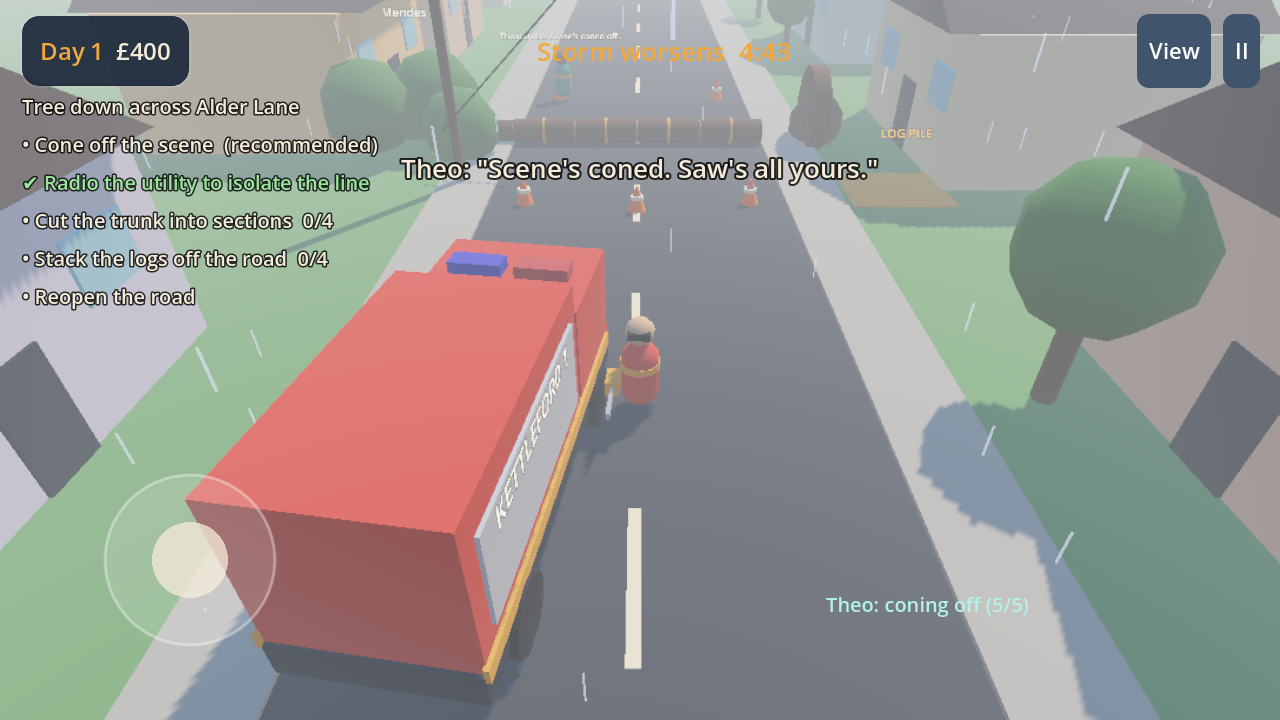
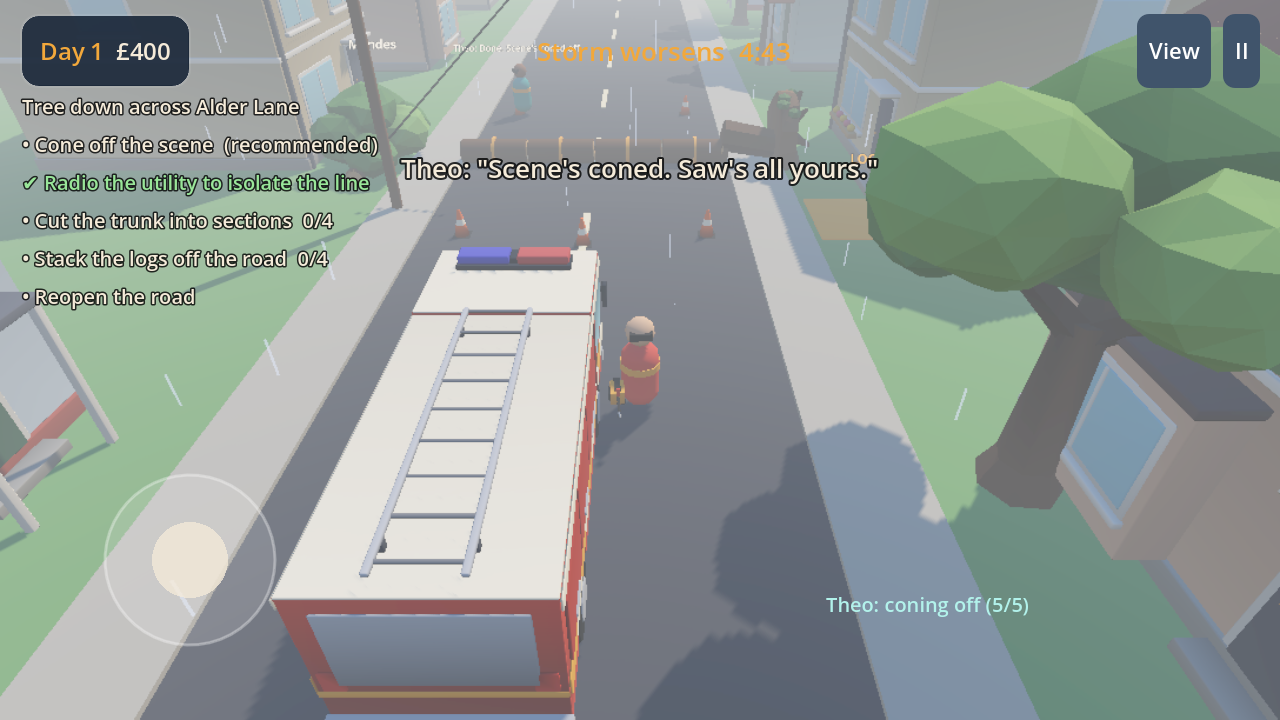
In-game screenshots with Batch A art, contextual crew line, devlog
Claude-Session: https://claude.ai/code/session_018WCsTMEqvaP3bpYFgA5iPv

diff --git a/DEVLOG.md b/DEVLOG.md
@@ -44,3 +44,10 @@ Newest entries at the bottom. Each entry: what changed, why, evidence.
 - The asset hand delivered Batch A through the Blender 5.2 pipeline: station hall, 4 house variants (+ damage/patch overlays authored on the shared roof slope), 3 tree types, bush, cone, chainsaw, log section, root plate, canopy, log pile, rescue truck with separate light-bar nodes. 24.3k tris total, all within budget. Contact sheet: `docs/asset_renders/A.png`.
 - Every glb imports onto the two shared materials `palette.tres` / `palette_emissive.tres`, so `AssetLib` no longer overrides materials.
 - Town, truck, chainsaw, cones and tree-incident props now load art by id; houses rotate to face their street; primitives remain as fallback (`-- --no-art` for A/B perf comparisons).
+
+## Day 1 · 13:15 — Emulator attempt, first in-game art review
+- Installed the Android emulator; `emulator -accel-check` → "KVM requires a CPU that supports vmx or svm". The container CPU exposes no virtualisation, so no Android image can boot here. Device testing needs a physical phone or a device farm (RISKS R1).
+- Full three-day run with Batch A art on the **Forward Mobile** renderer (lavapipe software Vulkan): PASS, 62 checks. Screenshots in `docs/screenshots/` (01–18).
+- Art cut on-scene draw calls 267 → 155 and station 142 → 88 (fewer, merged meshes). On-scene primitives rose 20k → 71k: still well under the 150k budget.
+- Review fixes: lane houses moved back 1 m so the deeper house models don't crowd the log-pile verge; Theo's "Saw's all yours" line now only plays at tree incidents.
+- Still placeholder: characters (capsules) until Batch B lands; ground and roads are flat palette-coloured primitives.
